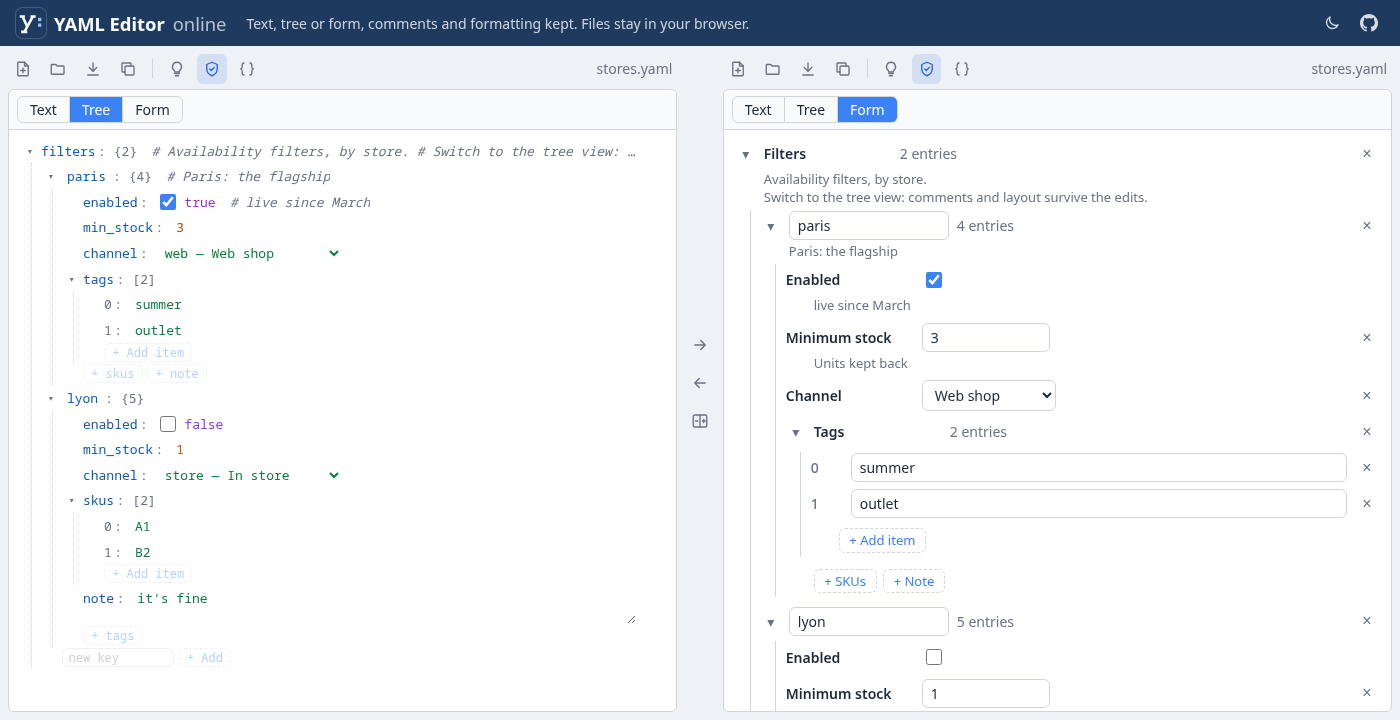
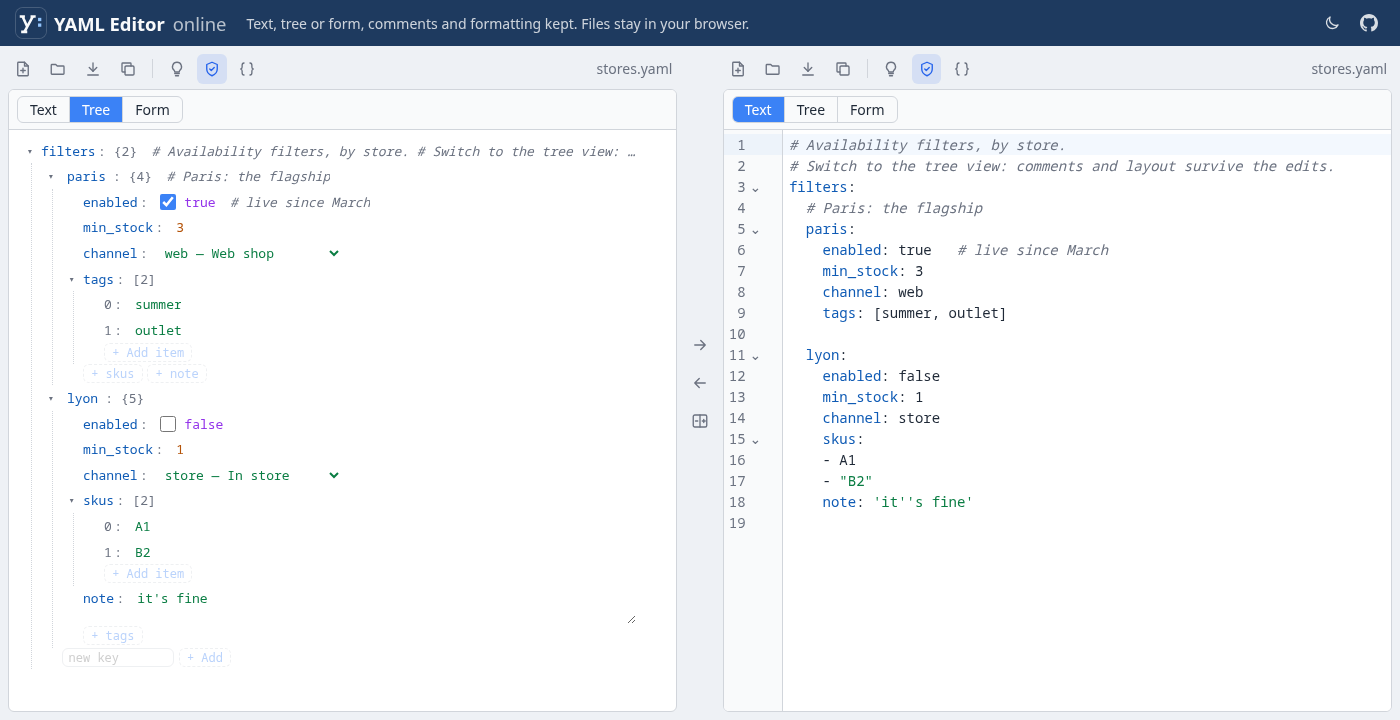
docs: the hero shows the tree and the text

diff --git a/README.md b/README.md
@@ -4,7 +4,7 @@
 
 A YAML editor for the browser, without a framework: **text**, **tree** and **form** views on one document, and every edit **keeps the file as written** (comments, key order, layout), so a one-field change is a one-line diff.
 
-[![The demo: the same document as a tree and as a form](https://raw.githubusercontent.com/quazardous/vanilla-yamleditor/main/docs/screenshot.png)](https://yamleditor.davidberlioz.net)
+[![The demo: the same document as a tree and as text](https://raw.githubusercontent.com/quazardous/vanilla-yamleditor/main/docs/screenshot.png)](https://yamleditor.davidberlioz.net)
 
 ## Quick start
 
